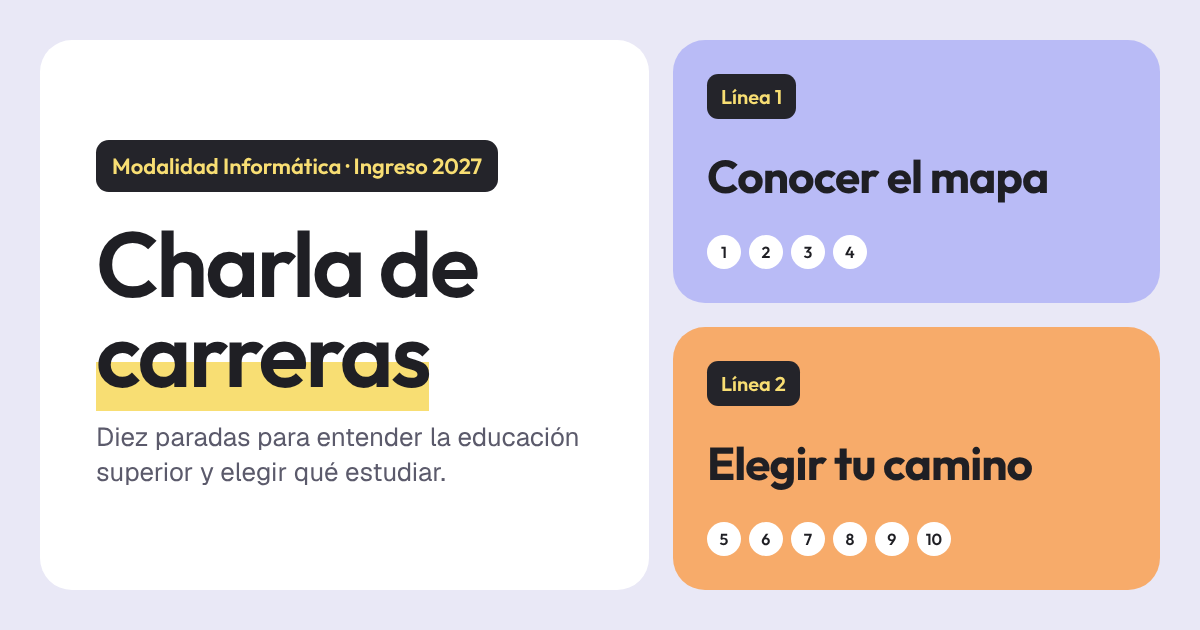
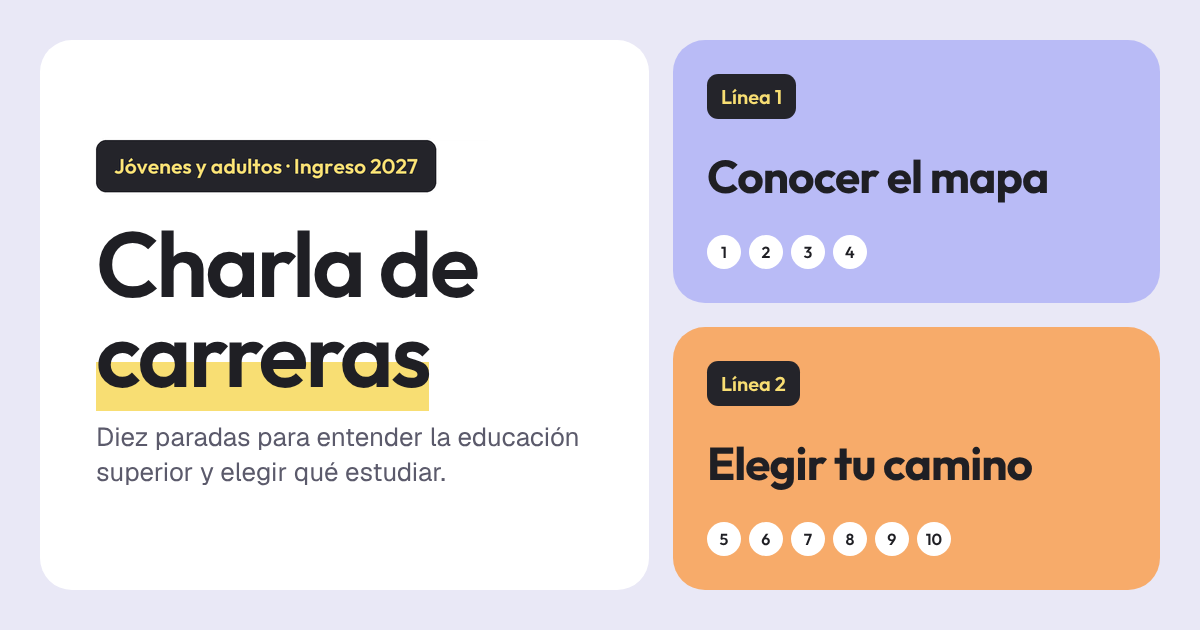
Cambiar la etiqueta de la imagen para redes por el nuevo público
La etiqueta de og.png dice "Jóvenes y adultos · Ingreso 2027" en lugar de
"Modalidad Informática · Ingreso 2027". El texto alternativo acompaña el cambio.

Changed region(s): [[0.0925, 0.2111, 0.4317, 0.3317]]

diff --git a/index.html b/index.html
@@ -18,7 +18,7 @@
 <meta property="og:image:type" content="image/png">
 <meta property="og:image:width" content="1200">
 <meta property="og:image:height" content="630">
-<meta property="og:image:alt" content="Charla de carreras 2027. Modalidad Informática. Diez paradas en dos líneas: Conocer el mapa y Elegir tu camino.">
+<meta property="og:image:alt" content="Charla de carreras 2027 para jóvenes y adultos. Diez paradas en dos líneas: Conocer el mapa y Elegir tu camino.">
 <meta name="twitter:card" content="summary_large_image">
 <meta name="twitter:title" content="Charla de carreras 2027">
 <meta name="twitter:description" content="Diez paradas para entender la educación superior y elegir qué estudiar después del secundario.">
